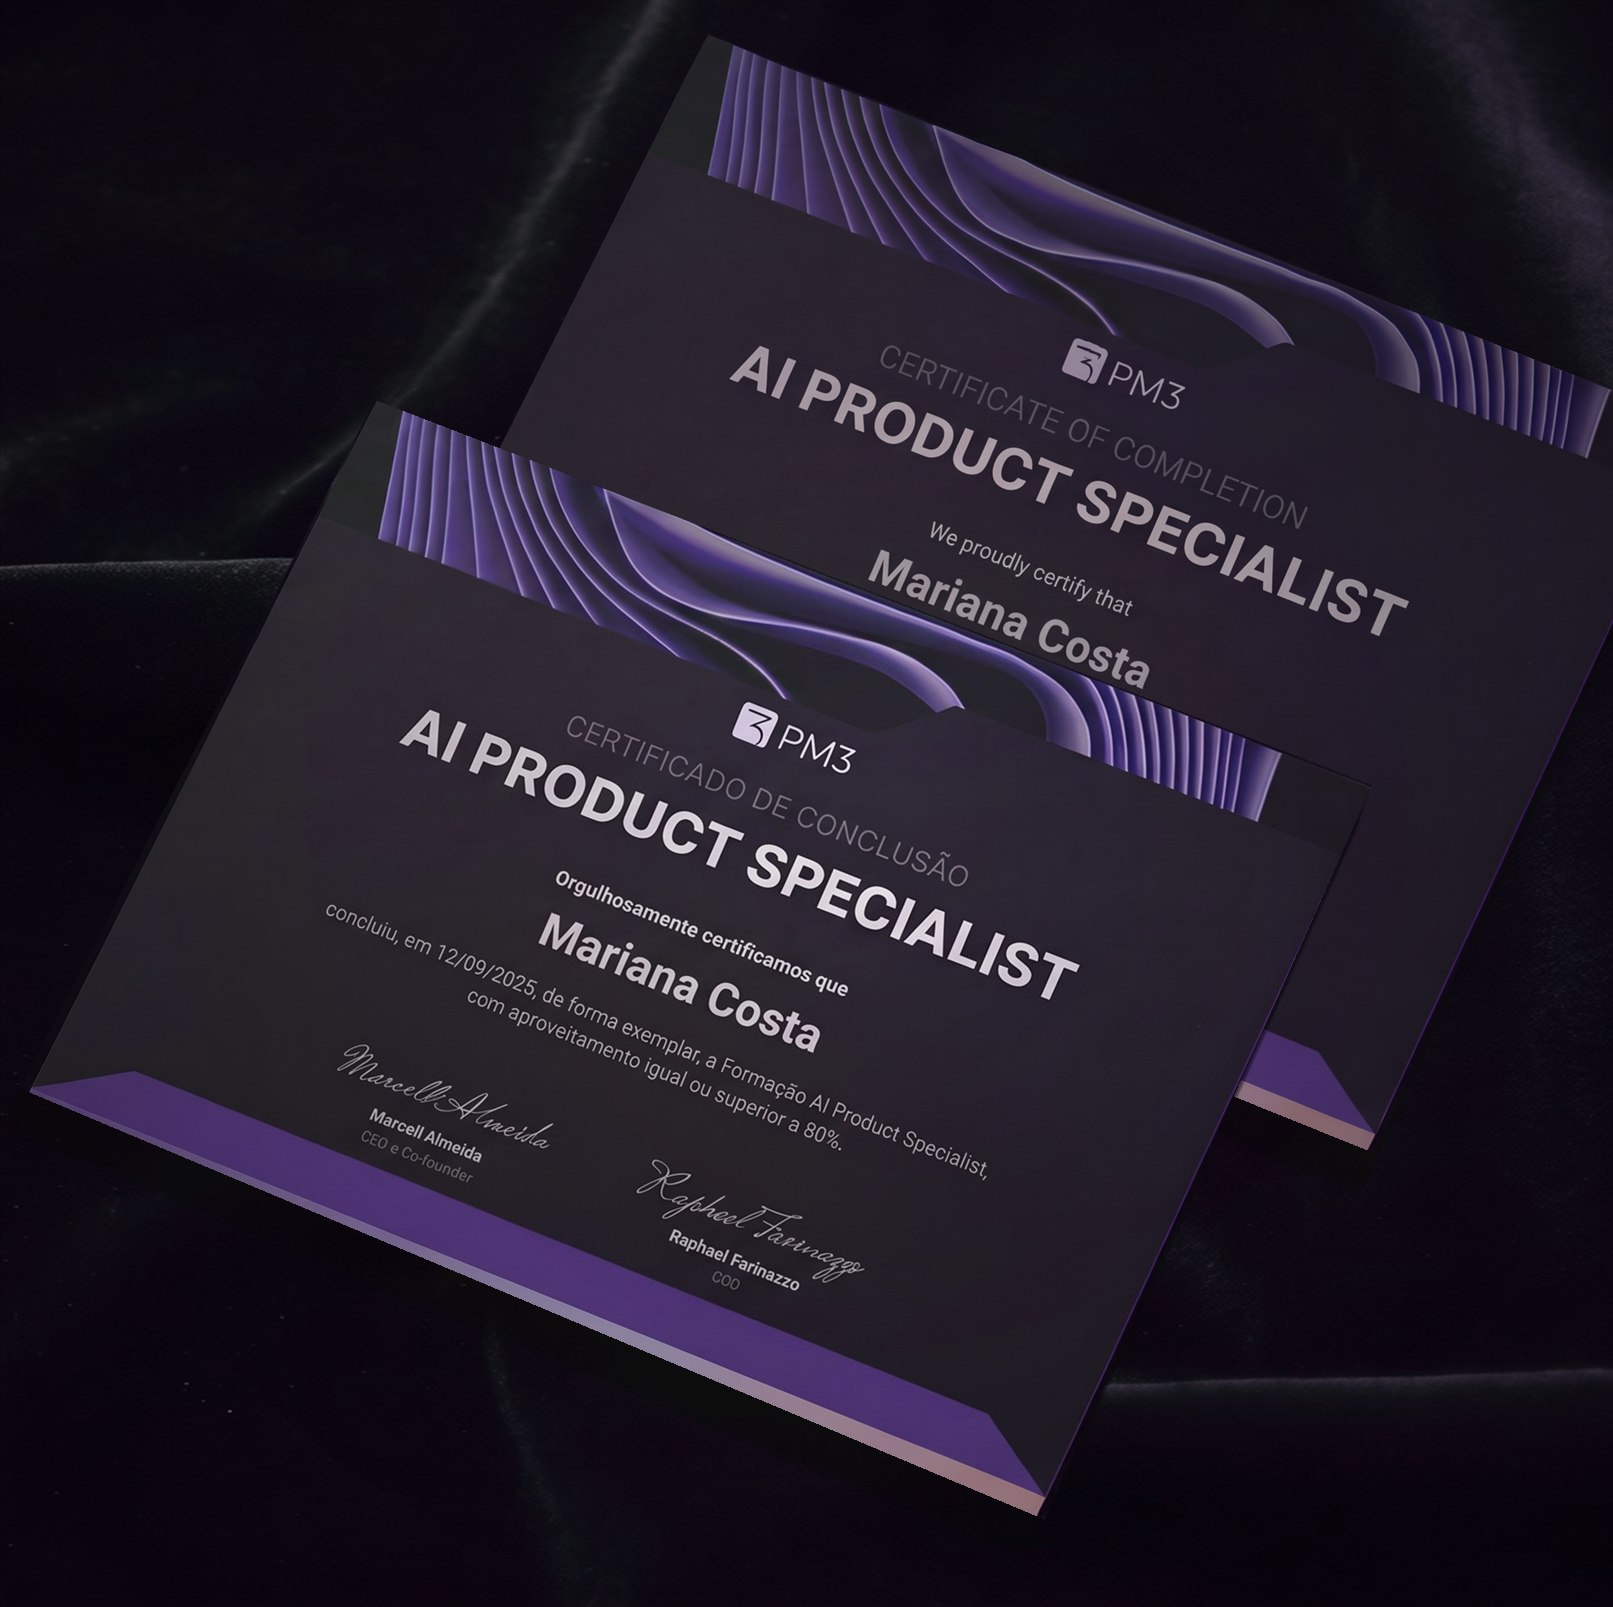
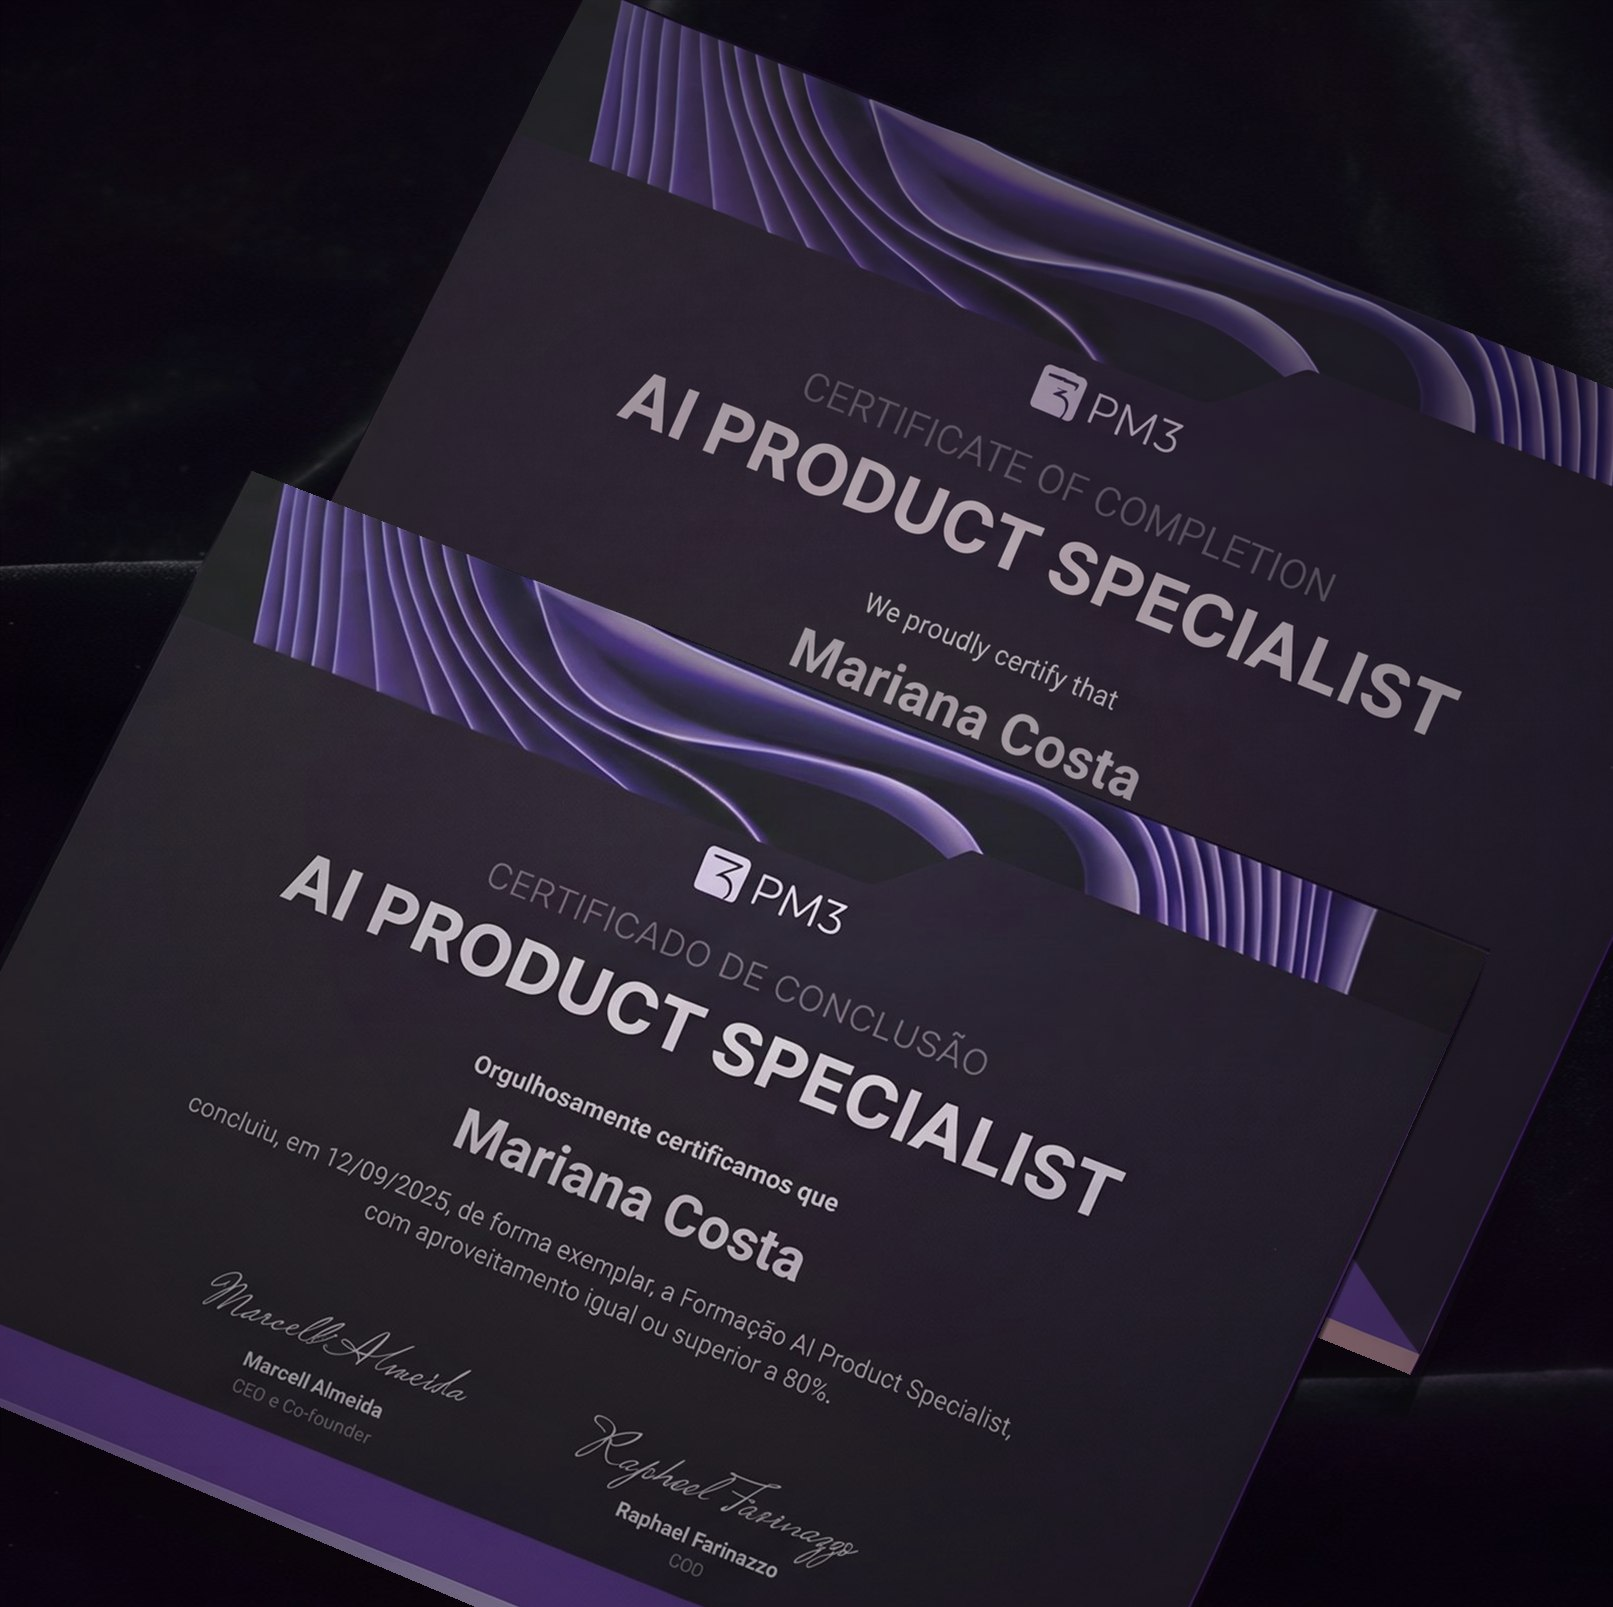
Certificado: enquadramento mais próximo nos três mockups (português e inglês)

Changed region(s): [[0.0, 0.0, 1.0, 1.0], [0.682, 0.7467, 0.744, 0.8712]]

diff --git a/home.html b/home.html
@@ -191,7 +191,7 @@
 
 <!-- 5 · CERTIFICADO (certificado.css, a mesma dobra do Membership) -->
 <section class="cx-sec on-dark" aria-labelledby="ce-t">
-  <div class="cx-hero cx-var cx-troca" id="cxTroca" style="--cert-full:url('../img/certificado-duo-pm.jpg?v=1');--cert-crop:url('../img/certificado-duo-pm-crop.jpg?v=1')" data-nota="Mockup do certificado de Product Management em português (frente) e inglês (atrás), montado a partir das artes reais.">
+  <div class="cx-hero cx-var cx-troca" id="cxTroca" style="--cert-full:url('../img/certificado-duo-pm.jpg?v=2');--cert-crop:url('../img/certificado-duo-pm-crop.jpg?v=2')" data-nota="Mockup do certificado de Product Management em português (frente) e inglês (atrás), montado a partir das artes reais.">
     <div class="wrap">
       <div class="cx-copy">
         <p class="kicker">Certificado PM3</p>

diff --git a/formacao-ai-product-builder.html b/formacao-ai-product-builder.html
@@ -247,7 +247,7 @@
 
 <!-- 7 · CERTIFICADO -->
 <section class="cx-sec on-dark" id="certificado" aria-labelledby="ce-t">
-  <div class="cx-hero cx-var" style="--cert-full:url('../img/certificado-duo-aipb.jpg?v=1');--cert-crop:url('../img/certificado-duo-aipb-crop.jpg?v=1')" data-nota="Mockup do certificado desta formação, em português (frente) e inglês (atrás).">
+  <div class="cx-hero cx-var" style="--cert-full:url('../img/certificado-duo-aipb.jpg?v=2');--cert-crop:url('../img/certificado-duo-aipb-crop.jpg?v=2')" data-nota="Mockup do certificado desta formação, em português (frente) e inglês (atrás).">
     <div class="wrap">
       <div class="cx-copy">
         <p class="kicker"><span class="n">06</span> Certificado</p>

diff --git a/formacao-ai-product-specialist.html b/formacao-ai-product-specialist.html
@@ -245,7 +245,7 @@
 
 <!-- 7 · CERTIFICADO -->
 <section class="cx-sec on-dark" id="certificado" aria-labelledby="ce-t">
-  <div class="cx-hero cx-var" style="--cert-full:url('../img/certificado-duo-aips.jpg?v=1');--cert-crop:url('../img/certificado-duo-aips-crop.jpg?v=1')" data-nota="Mockup do certificado desta formação, em português (frente) e inglês (atrás).">
+  <div class="cx-hero cx-var" style="--cert-full:url('../img/certificado-duo-aips.jpg?v=2');--cert-crop:url('../img/certificado-duo-aips-crop.jpg?v=2')" data-nota="Mockup do certificado desta formação, em português (frente) e inglês (atrás).">
     <div class="wrap">
       <div class="cx-copy">
         <p class="kicker"><span class="n">06</span> Certificado</p>
